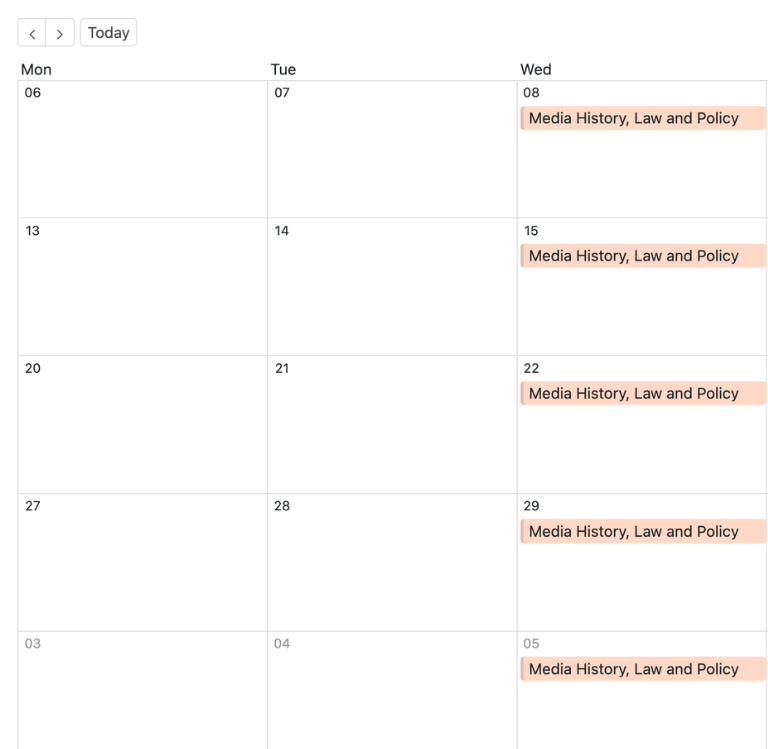
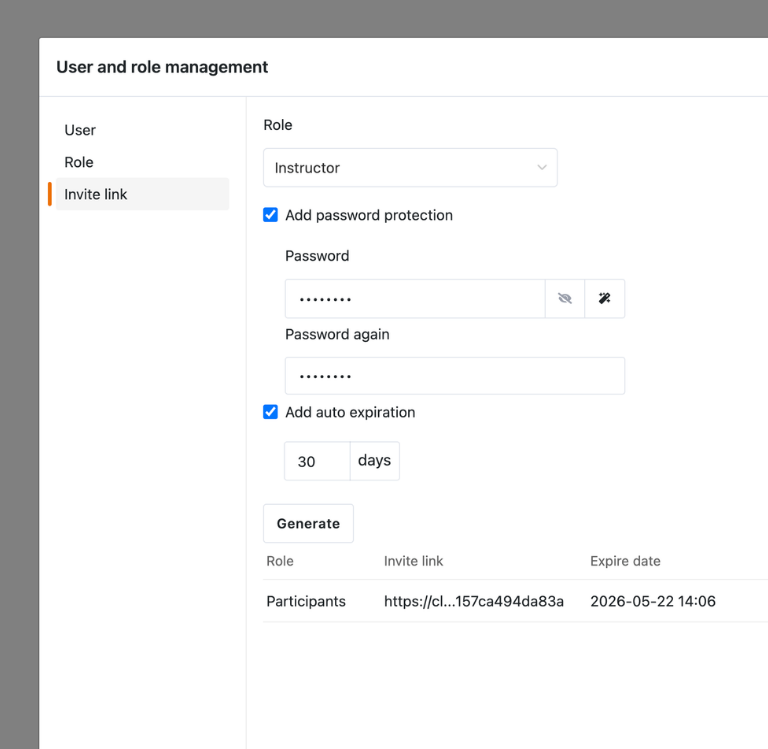
Templage Page Konkurrenzanalyse DE, post to page

diff --git a/src/content/templates/marketing/competitor-analysis/index.de.md b/src/content/templates/marketing/competitor-analysis/index.de.md
@@ -1,21 +1,196 @@
 ---
 title: 'Konkurrenzanalyse'
 description: 'Vergleichen und analysieren Sie Wettbewerber zentral, identifizieren Sie Marktnischen und treffen Sie datenbasierte strategische Entscheidungen.'
+date: '2025-10-09'
+lastmod: '2026-05-13'
 url: '/de/vorlage/konkurrenzanalyse'
 aliases:
     - '/de/vorlage/competitor-analysis'
 category: 'marketing'
 functions:
 seo:
-    title: 'Konkurrenzanalyse: Marktchancen erkennen & Wettbewerb vergleichen'
-    description: 'Analysieren Sie Mitbewerber, entdecken Sie Nischen und treffen Sie fundierte Entscheidungen mit unserem Konkurrenzanalyse-Template.'
-template: 'c08760ae51e94e9e9632'
+    title: 'Konkurrenzanalyse Vorlage: Wettbewerb analysieren | SeaTable'
+    description: 'Nutzen Sie unsere kostenlose Konkurrenzanalyse Vorlage, um Wettbewerber strukturiert zu vergleichen und Marktchancen sofort zu erkennen'
+type: pages
+
+sections:
+    - name: hero-5
+      weight: 1
+      title: 'Konkurrenzanalyse Vorlage: Positionierung & Marktbeobachtung'
+      text: 'Unübersichtliche Excel-Listen, verteilte Dokumente in Word, PDF und PowerPoint, erschwerte Vergleichbarkeit: Klassische Ansätze für die Konkurrenzanalyse stoßen schnell an Grenzen. Daten zu Wettbewerbern liegen verstreut, Grafiken sind aufwendig zu erstellen, und Updates sind mühsam. Mit der Konkurrenzanalyse Vorlage von SeaTable erfassen Sie Wettbewerber-Stammdaten, Marktanteile, Zielgruppen, Marketingkanäle, SWOT-Analysen und USPs in einer kollaborativen Plattform – inklusive Dashboards für Visualisierungen, automatisierter Vergleiche und Echtzeit-Updates für Ihre Wettbewerbsanalyse. Analysieren Sie den Wettbewerb mit dieser Vorlage für datenbasierte Strategieentwicklung und Benchmarking.'
+      classes:
+          - bg-white
+      template: 'c08760ae51e94e9e9632'
+      buttons:
+          - label: Jetzt kostenlos registrieren und Vorlage nutzen
+            link_to_template: true
+            style: primary
+    
+    - name: "content-4"
+      weight: 2
+      title: 'Konkurrenzanalyse Vorlage für Ihren Strategie-Workflow'
+      subtitle: Konkurrenzanalyse online strukturieren
+      text: 
+      items:
+        - icon: 'check'
+          headline: 'Datensilos endlich auflösen'
+          text: 'Bündeln Sie Wettbewerberdaten, Marktanteile, Zielgruppen und SWOT-Analysen zentral in der Konkurrenzanalyse Vorlage. So ersetzen Sie verstreute Excel-Listen, Word-Dokumente und PowerPoints durch eine kollaborative Plattform. Alle Marktinformationen für Marktforschung und Positionierung bleiben für Teams stets aktuell und zugänglich.'
+        - icon: 'bars'
+          headline: 'Marktanteile Echtzeit verfolgen'
+          text: 'Verfolgen Sie Marktanteile, Preise und Features Ihrer Wettbewerber live in der Vorlage für die Konkurrenzanalyse. Das Konkurrenzanalyse Tool zeigt Vergleiche in Echtzeit, damit Marketing-Teams und C-Level strategische Lücken sofort erkennen. Keine manuellen Abgleiche für Benchmarking und Preisstrategie mehr nötig.'
+        - icon: 'chart-line'
+          headline: 'Lücken früh visualisieren'
+          text: 'Visualisieren Sie USPs, Alleinstellungsmerkmale und Marketing-Mix im Dashboard der Konkurrenzanalyse Vorlage. Schwächen der Wettbewerber und Marktchancen werden sofort sichtbar – ohne aufwendiges Grafik-Erstellen. Profitieren Sie von automatisierter Business Intelligence für Ihre Strategieentwicklung.'
+        - icon: 'lock'
+          headline: 'Marktrisiken proaktiv managen'
+          text: 'Erkennen Sie Marktveränderungen vor der Konkurrenz durch automatisierte Alerts in der Wettbewerbsanalyse Vorlage. Bei Updates zu Medienstrategien oder Feature-Vergleichen warnen Benachrichtigungen. Stärken Sie datenbasierte Positionierung und minimieren Risiken in der Marktbeobachtung.' 
+        - icon: 'pencil'
+          headline: 'Änderungen ohne IT-Ticket'
+          text: 'Passen Sie die Konkurrenzanalyse Vorlage ohne IT-Hilfe an: Ergänzen Sie Felder für SWOT-Analyse, Marktanteile oder Zielgruppen. Die skalierbare No-Code-Struktur wächst mit Ihren Anforderungen in Marktforschung und Benchmarking – kooperativ für C-Level und Teams.'
+        - icon: 'bell'
+          headline: 'Wettbewerber zentral verwalten'
+          text: 'Pflegen Sie alle Wettbewerber-Stammdaten zentral: Logos, Websites, USPs und Marktinformationen in der Konkurrenzanalyse Vorlage. Automatische Verknüpfungen mit Produkten, Preisen und SWOTs ermöglichen nahtlose Feature-Vergleiche und kollaborative Strategieentwicklung' 
+
+    - name: "customer-1"
+      weight: 4
+      title: "Führende Unternehmen weltweit vertrauen auf SeaTable"
+      subtitle: "Wer nutzt SeaTable?"
+      marquee_rows: 2
+      items: 
+      - number: "100.000+"
+        text: Downloads im ersten Jahr von Docker Hub
+      - number: "1.500+"
+        text: "Tägliche Nutzer auf SeaTable Cloud"
+      - number: "4.6"
+        text: "Bewertung auf Capterra"
+      buttons:
+        - link: "categories/customer-story"
+          label: "SeaTable im Einsatz - Erfolgsgeschichten"
+          id: de-homepage-customer-1
+
+    - name: "content-12"
+      weight: 5
+      classes:
+        - curved
+        - [bg-gray-200, bg-seatable-blue]
+      title: 'Wettbewerbsanalyse an einem Ort'
+      subtitle: 'Ihre Vorteile im Überblick'
+      description: 'Mit der flexiblen KI No-Code-Plattform SeaTable setzen Sie ein Konkurrenzanalyse Tool um, das sich exakt an Ihre Workflows in Marketing und Strategie anpasst. Ersetzen Sie unübersichtliche Excel-Listen und verteilte Dokumente durch ein interaktives Tool für Konkurrenzanalyse Vorlage mit Drag-and-Drop, Dashboards und automatisierter Visualisierung – ideal für Echtzeit-Vergleiche, Marktbeobachtung und kollaborative Strategieentwicklung in Marketing-Teams und C-Level. Verbinden Sie Ihre Vorlage bei Bedarf direkt mit weiteren Datenbanken und schaffen Sie eine zentrale Plattform für Ihre [Wettbewerbsanalyse]({{< relref "posts/wettbewerbsanalyse" >}}).'
+      items:
+      - text: '**Aktuelle Daten:** Jede Änderung zu Wettbewerbern, Marktanteilen oder SWOT-Analysen ist sofort sichtbar – kein Abgleich veralteter Excel-Tabellen mehr in der Konkurrenzanalyse Vorlage.'
+      - text: '**Echte Kollaboration:** Education Administration, HR-Teams, Dozierende und Organisatoren arbeiten in einer gemeinsamen Datenbank – mit klaren Zuständigkeiten, Kommentaren und Statusfeldern.'
+      - text: '**Interaktives Template:** Wechseln Sie zwischen Tabellen für Stammdaten, Dashboards für Marktanteile und Visualisierungen für Feature-Vergleiche mit der Konkurrenzanalyse Vorlage.'
+      - text: '**Zentrale Ablage:** Logos, Websites, USPs und Marktinformationen liegen direkt im Konkurrenzanalyse Tool – ohne separate Ordner oder Dateiablagen.'
+      image_position: [left]
+      image: '/images/template_page_konkurrenzanalyse_01.png'
+      image_alt: ''
+
+    - name: "content-25"
+      weight: 10
+      title: 'Von Stammdaten bis Feature-Vergleich – lückenlos'
+      subtitle: 'Konkurrenzanalyse Beispiel aus der Praxis'
+      items:
+      - headline: 'Wettbewerber-Datenbank für Stammdaten'
+        text: 'In der Tabelle "Companies" pflegen Sie alle Wettbewerber-Stammdaten: Größe, Umsatz, Gründungsdatum, Region und Headquarters. Die Company-ID wird automatisch vergeben. Diese Basis verknüpft sich mit "Brands" und "Products", für lückenlose Marktbeobachtung in der Konkurrenzanalyse Vorlage.'
+        image: '/images/template_page_konkurrenzanalyse_02.png'
+        image_alt: ''
+      - headline: 'Brands mit USPs und Zielgruppen'  
+        text: 'In "Brands" listen Sie Marken mit Logos, Websites, Marketing-Materialien, Zielgruppen und Positionierung. Analysieren Sie Claims, USPs, Stärken/Schwächen. Durch Links zu Products berechnet sich der Durchschnittspreis pro 100g automatisch für Preisstrategie-Vergleiche.'
+        image: '/images/template_page_konkurrenzanalyse_03.png'
+        image_alt: ''
+      - headline: 'Produkte per Webformular erfassen'
+        text: 'In "Products" gruppieren Sie Produkte nach Brands, fügen Preise und Features hinzu. Upload von Bildern für detaillierte Feature-Vergleiche. Statusfarben zeigen Marktpositionierung – ideal für Benchmarking in der Konkurrenzanalyse Vorlage.'
+        image: '/images/template_page_konkurrenzanalyse_04.png'
+        image_alt: ''
+      - headline: 'Features für SWOT-Integration'
+        text: 'In "Features" sammeln Sie alle Merkmale für Vergleiche: Beliebte Inhalte, Lückenidentifikation. Verknüpfen mit [SWOT-Analyse Vorlage]({{< relref "templates/operations/swot-analysis" >}}) für ganzheitliche Strategieentwicklung und Positionierung – nahtlos von Marktforschung zur Optimierung.'
+        image: '/images/template_page_konkurrenzanalyse_05.png'
+        image_alt: ''
+            
+    - name: "content-6"
+      weight: 12
+      classes:
+        - curved
+        - bg-gray-100
+      title: 'Ihre individuelle Konkurrenzanalyse-App'
+      subtitle: 
+      items:
+      - text: 'Mit dem integrierten App Builder verwandeln Sie die Konkurrenzanalyse Vorlage in eine individuelle Analyse-App für Marketing, Vertrieb und Management. Kombinieren Sie Formulare für Marktbeobachtung, Übersichten für Wettbewerberprofile, Kanban-Ansichten für Analyse-Tasks und fokussierte Filter für einzelne Segmente oder Regionen – bis hin zu spezialisierten Views für Preisstrategie oder Medienstrategien. Teilen Sie gezielte Ausschnitte als Frontend mit Stakeholdern und steuern Sie über Berechtigungen, wer welche Marktinformationen sehen oder bearbeiten darf – so wird aus der Vorlage für die Konkurrenzanalyse ein maßgeschneidertes Konkurrenzanalyse Tool.'
+      image: '/images/template_page_konkurrenzanalyse_06.png'
+      image_alt: ''
+
+    - name: "banner-3"
+      weight: 15
+      title: 'Behalten Sie Wettbewerber, Marktanteile und Positionierung im Blick – mit der Konkurrenzanalyse Vorlage von SeaTable'
+      buttons:
+        - label: Jetzt die Konkurrenzanalyse Vorlage nutzen
+          link: pages/registration
+     
+    - name: "content-9"
+      weight: 16
+      title: 'KI-gestützte Konkurrenzanalyse'
+      subtitle: 'Smarte Automatisierung für Markt- und Wettbewerbsdaten'
+      description: 'Mit dem Konkurrenzanalyse Tool von SeaTable heben Sie Ihre Wettbewerbsanalyse auf das nächste Level! Automatisieren Sie Marktforschung und Strategieentwicklung mit leistungsstarken [KI-Funktionen]({{< relref "pages/landing-pages/use-cases/ai-automations" >}}) Verwandeln Sie die Vorlage für die Konkurrenzanalyse in einen intelligenten Hub für Wettbewerber, Marktanteile und SWOT-Analysen. Genießen Sie Echtzeit-Einblicke wie nie zuvor. Verabschieden Sie sich von Excel-Chaos und erleben Sie effiziente Marktbeobachtung. SeaTable integriert alles nahtlos für Ihre Positionierung.'
+      items:
+      - headline: 'Wettbewerber klassifizieren'
+        text: 'Mit Classify ordnet SeaTable Wettbewerber Kategorien, Marktsegmenten oder Risikogruppen zu. Die KI analysiert Namen, USPs oder Marktanteile und trägt Klassifizierungen in die Konkurrenzanalyse Vorlage ein – Filter und Dashboards für Wettbewerbsanalyse bleiben stets aktuell und datenbasiert für C-Level-Entscheidungen.'
+        icon: table
+      - headline: 'Daten aus PDFs extrahieren'
+        text: 'Mit Extract überträgt die KI Inhalte aus Berichten, Pressemitteilungen oder PDFs direkt in die Wettbewerbsanalyse Vorlage. Marktanteile, Preise, Features und Zielgruppen werden erkannt und in Spalten geschrieben – ohne manuelles Tippen für effiziente Marktforschung und Benchmarking in der Konkurrenzanalyse.'
+        icon: layer-group
+      - headline: 'OCR für Marketingmaterialien'
+        text: 'Mit OCR liest SeaTable Logos, Ads oder Screenshots aus: Texte zu USPs, Claims oder Positionierung werden Wettbewerbern in der Vorlage für die Konkurrenzanalyse zugeordnet. Dokumente sind durchsuchbar, Feature-Vergleiche automatisierbar – ideal für kooperative Marktbeobachtung ohne Aufwand.'
+        icon: image
+      - headline: 'Reports für Marktpositionierung'
+        text: 'Mit Summarize erzeugt SeaTable Statusreports: Marktanteile, SWOT-Zusammenfassungen oder Preisstrategien pro Wettbewerber. Die KI verdichtet Tabellen zu verständlichen Insights für Meetings – perfekt für Strategieentwicklung und Business Intelligence mit der Wettbewerbsanalyse Vorlage.'
+        icon: circle-info
+      - headline: 'KI-Regeln für USP-Erkennung'
+        text: 'Mit Custom Prompt definieren Sie Regeln für das Konkurrenzanalyse Tool: z.B. Lücken in Feature-Vergleichen oder Vorschläge zu Alleinstellungsmerkmalen. Die KI verarbeitet Daten zu Empfehlungen für Positionierung und Marketing-Mix in Echtzeit.'
+        icon: wand-magic-sparkles
+      - headline: 'Echtzeit-SWOT-Auswertungen'
+        text: 'Mit KI-Automatisierungen werten Sie Wettbewerberdaten aus: Die KI füllt Felder zu fehlenden USPs, Marktchancen oder Preisunterschieden. Nutzen Sie diese Insights direkt in Dashboards der Konkurrenzanalyse Vorlage für schnelle Entscheidungen in Strategieentwicklung und Benchmarking.'
+        icon: arrow-right
+        
+        
+    - name: "content-13"
+      weight: 18
+      class:
+       - curved
+       - bg-gray-100
+      title: 'Flexibel, schnell und zuverlässig skalieren'
+      subtitle: 'Transparenz und Zusammenarbeit in Echtzeit'
+      description: 'SeaTable ist eine moderne KI No-Code Datenbanklösung mit Automatisierungen und integriertem App Builder und bietet alle Funktionen für ein professionelles, cloud-basiertes Konkurrenzanalyse Tool. Im Fokus: Echtzeit-Vergleiche, Kollaboration und Anpassung – von der Wettbewerberdatenbank mit Marktanteilen bis zum Tool für Wettbewerbsanalyse Vorlage mit SWOT, Benchmarking und Visualisierungen als Alternative zu Excel und verteilten Dokumenten.'
+      box-position: [right!]
+      items:
+      - headline: Alternative zu Excel und PowerPoint 
+        text: 'Organisieren Sie Konkurrenzanalyse mit SeaTable effizienter als in Excel oder PPT – mit verknüpften Tabellen, Views, Formularen und Automatisierungen für Marketing-Spezialisten und C-Level.'
+      - headline: Marktforschung & Strategie verbinden
+        text: 'Verknüpfen Sie die Konkurrenzanalyse Vorlage mit SWOT-Analyse Vorlage und weiteren Marketing-Datenbanken. Führen Sie Wettbewerber, USPs und Marktanteile zentral zusammen für maximale Einsicht.'
+      - headline: DSGVO-konform
+        text: 'Wenn Sie SeaTable Cloud oder die integrierte KI nutzen, bleiben alle Daten in Europa – die Infrastruktur wird ausschließlich auf Servern in Deutschland betrieben.'
+      - headline: 2FA und SSO 
+        text: 'Mit der unterstützten Zwei-Faktor-Authentifizierung und Single Sign-on steuern Sie exakt, wer auf die sensiblen Wettbewerbsdaten der Konkurrenzanalyse zugreifen darf.'
+
+    - name: "faq"
+      weight: 20
+      title: 'FAQs zur Konkurrenzanalyse Vorlage von SeaTable'
+      subtitle: 
+      items:
+      - q: "Was ist der Unterschied zwischen einer Markt- und einer Konkurrenzanalyse Vorlage?"
+        a: 'Eine Marktanalyse betrachtet den gesamten Markt, Trends und Zielgruppen, während die Vorlage den Fokus auf konkrete Wettbewerber, deren Stärken, Schwächen, Marktanteile und Positionierung legt. Idealerweise kombinieren Sie beide Perspektiven in einem zentralen Marketing-Tool wie SeaTable.'
+      - q: "Wie oft sollte ich die Wettbewerbsanalyse Vorlage aktualisieren?"
+        a: 'Wir empfehlen, Ihre Wettbewerbsanalyse Vorlage mindestens quartalsweise zu aktualisieren. In dynamischen Märkten oder bei Produktlaunches können monatliche Updates sinnvoll sein, um Preisstrategie, USP und Marketingmaßnahmen aktuell zu halten.'
+      - q: "Kann ich eigene Kriterien in der Vorlage ergänzen?"
+        a: 'Ja, Sie können jederzeit zusätzliche Spalten, Tabellen, Ansichten und Workflows in Ihrer Konkurrenzanalyse Vorlage anlegen – etwa für neue Segmente, Benchmarks, Kennzahlen oder spezifische Kriterien Ihrer Branche.'
+      - q: "Ist die Nutzung der Konkurrenzanalyse-Vorlage kostenlos?"
+        a: 'Sie können die Konkurrenzanalyse Vorlage kostenlos in der SeaTable Cloud nutzen. Sie benötigen lediglich einen Account und können sofort beginnen, Wettbewerberdaten strukturiert zu erfassen und auswertbare Analysen aufzubauen.'
+      - q: "Wie unterscheidet sich die SeaTable Konkurrenzanalyse Vorlage von einer Konkurrenzanalyse in Excel?"
+        a: ' In Excel stoßen Sie schnell an Grenzen: manuelle Pflege, fehlende Verknüpfungen, Medienbrüche und aufwendige Visualisierung. Die Vorlage in SeaTable verknüpft Marktinformationen, Wettbewerberprofile, SWOT-Analysen und Dashboards und ermöglicht Automatisierungen sowie Kollaboration in Echtzeit.'
+      - q: "Kann ich die Konkurrenzanalyse Vorlage mit der SWOT-Analyse Vorlage kombinieren?"
+        a: 'Ja, Sie können diese Vorlage direkt mit der SWOT-Analyse-Vorlage verknüpfen, Ergebnisse'
+      - q: "Eignet sich die Vorlage auch für internationale Märkte?"
+        a: 'Sie können mehrere Länder, Regionen oder Sprachen in Ihrer Konkurrenzanalyse Vorlage abbilden, Filter und Ansichten pro Markt anlegen und so internationale Wettbewerbsstrategien strukturiert planen.'
+      - q: "Passt die Vorlage zu weiteren Marketing-Workflows?"
+        a: 'Ja, erweitern Sie Ihre Wettbewerbsanalyse mit den [SeaTable Marketing Vorlagen]({{< relref "templates/marketing" >}}) zu einem zentrales Tool für Konkurrenzanalyse und Strategie.'
+      
 ---
-
-Als Geschäftsinhaber wissen Sie genau, wie wichtig es ist, Ihre Konkurrenten zu kennen. Erst mit einer umfangreichen Konkurrenzanalyse ist es möglich, Ihr Unternehmen oder Produkt am Markt positionieren zu können, um nicht in der Masse zu verschwinden. Eine ausführliche **Wettbewerbsanalyse** zeigt auf, welche Segmente am Markt bereits gut bedient und abgedeckt sind und ob es möglicherweise eine lukrative Nische für Ihr Produkt in der angestrebten Zielgruppe gibt.
-
-Durch empirische Studien und umfangreiche Recherchen können Sie eine Datenbank mit den wichtigsten und interessantesten Funktionen Ihrer Wettbewerber erstellen, sodass Sie immer einen klaren Überblick darüber haben, wo Sie sich auf dem Markt befinden. In unserem Blog-Artikel zeigen wir Ihnen, wie Sie mit den ersten Schritten beginnen.
-
-### Interaktives Template
-
-Scrollen Sie durch unser interaktiv eingebettetes Template oder lesen Sie die Beschreibung, indem Sie auf das {{< seatable-icon icon="dtable-icon-description" >}} hinter dem Vorlagennamen klicken. So bekommen Sie ein besseres Gefühl für die Funktionen. Bei Fragen empfehlen wir Ihnen, unseren Hilfebereich zu nutzen.